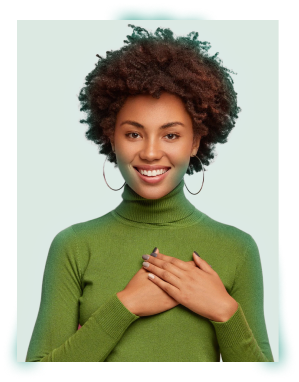
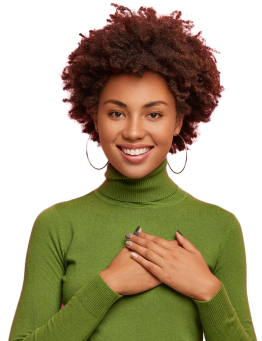
Style the stats section with appropriate borders, colors, and space

diff --git a/style.css b/style.css
@@ -1,5 +1,6 @@
 * {
   border: 0;
+  margin: 0;
   padding: 0;
   box-sizing: border-box;
 }
@@ -9,6 +10,8 @@
   --primary-color: hsl(170, 100%, 26%);
   --headline: hsl(210, 11%, 15%);
   --paragraph: hsl(210, 9%, 31%);
+  --brand-beige: hsl(39, 100%, 97%);
+  --brand-light: hsl(148, 23%, 89%);
 }
 
 body {
@@ -67,8 +70,58 @@ button {
   justify-content: center;
   gap: 1.6rem;
 
-  margin-left: auto;
-  margin-right: auto;
+  margin-inline: auto;
 
   cursor: pointer;
+}
+
+.stats {
+  width: 32.7rem;
+  padding-block: 4rem;
+
+  margin-inline: auto;
+
+  background-color: var(--brand-beige);
+
+  display: flex;
+  flex-direction: column;
+  justify-content: center;
+  gap: 6rem;
+
+  border-radius: 0.6rem;
+  border: 1px solid var(--brand-light);
+}
+
+.stat h3 {
+  font-size: 4.8rem;
+  line-height: 130%;
+  color: var(--headline);
+
+  margin-bottom: 0.4rem;
+}
+
+.stat p {
+  margin: 0;
+  color: var(--primary-color);
+
+  font-size: 1.6rem;
+  line-height: 150%;
+}
+
+header img {
+  width: 26.4rem;
+  display: block;
+  margin-inline: auto;
+}
+
+header::before {
+  content: '';
+  width: 100vw;
+  height: 108rem;
+  background-color: var(--brand-light);
+  display: block;
+  position: absolute;
+  top: 0;
+  left: 0;
+  z-index: -1;
 }

diff --git a/index.html b/index.html
@@ -39,12 +39,24 @@
         src="/assets/fotoMulher.png"
         alt="Foto de uma mulher negra com moleton verde sorrindo"
       />
-      <h3>+3.500</h3>
-      <p>Pacientes atendidos</p>
-      <h3>+15</h3>
-      <p>Especialistas disponíveis</p>
-      <h3>+10</h3>
-      <p>Anos no mercado</p>
+
+      <div class="stats">
+        <div class="stat">
+          <h3>+3.500</h3>
+          <p>Pacientes atendidos</p>
+        </div>
+        <div class="stat">
+          <h3>+15</h3>
+          <p>Especialistas disponíveis</p>
+        </div>
+        <div class="stat">
+          <h3>+10</h3>
+          <p>Anos no mercado</p>
+        </div>
+      </div>
     </header>
   </body>
 </html>
+
+
+
